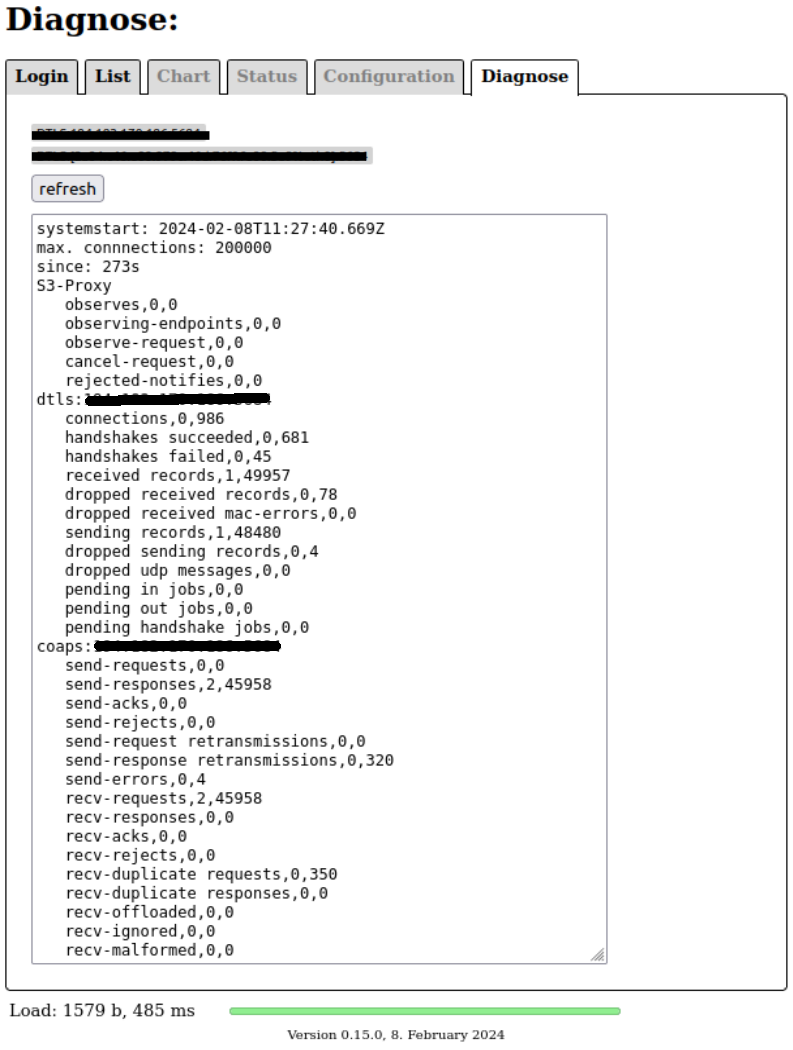
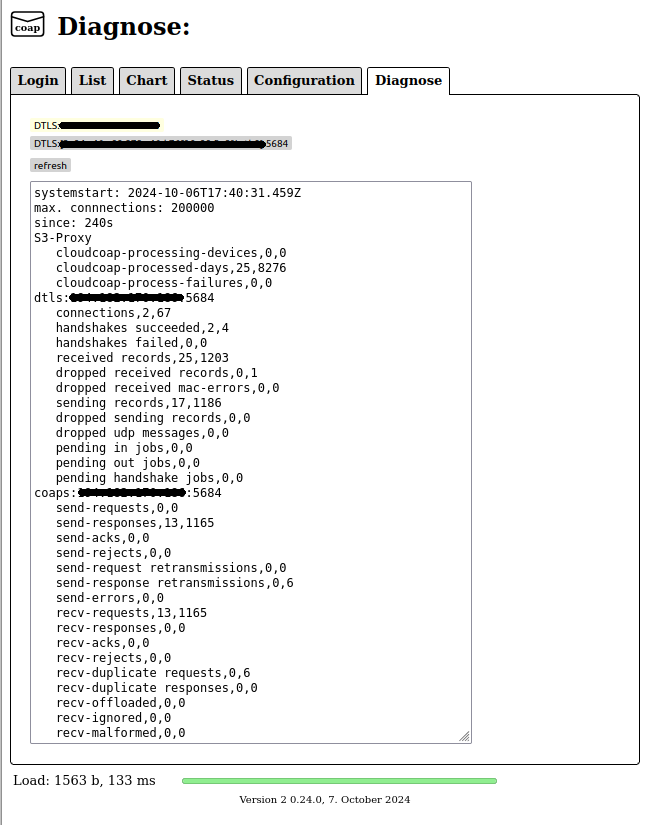
Update web UI docu.

Changed region(s): [[0.0, 0.0, 0.7879, 1.0], [0.9697, 0.0909, 1.0, 0.1212]]

diff --git a/demo-apps/cf-s3-proxy-server/docs/web-ui.md b/demo-apps/cf-s3-proxy-server/docs/web-ui.md
@@ -6,13 +6,23 @@
 
 The web UI is implemented as `Single Page Application` in plain [javascript](../src/main/resources/app.js). That allows to use it with a lot of devices, which just needs to come with an modern web-browser.
 
-On start, the login page asks for your web-login and internally returns the signing credentials to access the device data on S3. The protection mechanisms on S3 depends on the provider and not all have a fine-grained permission model. Therefore just a basic permission model with read and read/write rights based on S3 buckets is used.
+On start, the login page asks for your web-login and internally returns the signing credentials to access the device data on S3. The protection mechanisms on S3 depends on the provider and not all have a fine-grained permission model. Therefore just a basic permission model with read rights based on S3 buckets is used. Writes are supported via the HTTP login host and a user must have the device to write in one of the groups associated to the user.
+
+With the introduction of the archive files, there is also a new javascript version supporting these files. Append "/v2" to your hostname and that will be loaded. This will change in the future and will become the default and the old, series-file based web UI will then be available with "/v1".
+
+To open the web application enter 
+
+`https://<your-hostname>` in the browser or `https://<your-hostname>/v2` for the version with archive file support.
 
 ### Web-Browser Application Login View
 
 ![browser-login](./S3-proxy-login.png)
 
 To get access to the device data, enter the name and password and press "Login". When you're done with the device data, press "Logout" to ensure, the credentials are destroyed and order to protect them from being misused. If you close the browser or the page without logout, you will be warned about that with "leaving the page" and you need to select "leave page".
+
+Sometimes new javascript are published, but the web-browser doesn't always refresh it. Therefore the web applications checks for updates on login an indicates a new version with "(Please refresh, update available!)" appended to the shown version.
+
+![browser-update message](./S3-proxy-update-message.png)
 
 ### Web-Browser Application Device List View
 
@@ -24,19 +34,21 @@ The list contains an overview of selected device data. The list of columns is co
 
 When the list is shown at the begin, clicking on the column titles, `Device`, `Last Update`, `Provider`, `Operator`, `Bd` (Band), `Uptime`, or `Bat.`, will sort the list according the values of that column. If you click again, the order is reverted.
 
-If you `refresh` the list, updated entries will be shown with a yellow background.
+If you `refresh` the list, updated entries will be shown with a light yellow background and marked with an `*`. New entries will be shown with `+` and a yellow background.
+
+**Web UI V2 only:** If devices are using the **CUSTOM_OPTION_INTERVAL** to send the expected time until the next regular message, a `!` and light red background signals, that the next regular message of that device is missing. If the second regular message is missing, `!!` are shown on a red background. With 10 missing regular messages, the view switches to `-` without a colored background. It is also possible to sort the devices according their state, pressing the empty button in the title line. The precedence is `!!`, `!`, `+`, `*`, `<space>` and `-`.
 
 ![browser-list](./S3-proxy-list-new.png)
 
 ### Web-Browser Application Chart View
 
-![browser-chart](./S3-proxy-chart.png)
+The chart view shows some selected values as chart. The unit and scale of that unit is on the y-axis of both sides in the same color as the line in the chart.
 
-The chart view shows some selected values as chart. The unit and scale is on the y-axis of both sides in the same color as the line.
+![browser-chart](./S3-proxy-chart.png)
 
 With the slidebar the displayed period is selected. Short periods up to 10 days may be selected by steps in single days, larger periods are selected in steps of multiple days.
 
-At the top of the chart several checkboxes are available. With `Signals` you select the technical values, battery voltage, battery level, signal level, signal quality, number of retransmissions, and RTT. With `Sensors` you get for a `Thingy:91` the temperature, air pressure and humidity. For other devices you may get other values. With `Average` and `Min/Max` you select, how multiple values are mapped into a single point. `Zoom` extends the value range to the full y-axis.
+At the top of the chart several checkboxes are available. With `Signals` you select the technical values, battery voltage, battery level, signal level, signal quality, number of retransmissions, and RTT. With `Sensors` you get for a `Thingy:91` the temperature, air pressure and humidity. For other devices you may get other values. With `Average` and `Min/Max` you select, how multiple values are mapped into a single point. `Zoom` extends the value range to the mostly full y-axis.
 
 ![browser-chart-signals](./S3-proxy-chart-signals.png))
 
@@ -44,9 +56,9 @@ Using the cursor is slightly different when using an smartphone or an PC. With t
 
 ### Web-Browser Application Device Status View
 
-![browser-status](./S3-proxy-status.png)
-
 The status view shows the data received from the device. If no other timepoint is selected in the `Chart` view, the last received data is shown. Otherwise the data from the timepoint selected in the `Chart` view.
+
+![browser-status](./S3-proxy-status.png)
 
 At the top, the timepoint of the receiving the shown data is displayed. If available, the network status is extracted and displayed at the head below the timepoint. The payload of the the device data follows.
 
@@ -54,9 +66,9 @@ Below the payload field you may use the `<1000`, `<100`, `<20`, `<10` or `<` to 
 
 ## Web-Browser Application Device Configuration View
 
-![browser-config](./S3-proxy-config.png)
-
 The configuration view shows the data send to the device on response. Above the data field the timepoint of writing that data to the server is displayed. If that timepoint is newer than the timepoint of the last received data, then the timepoint shows a yellow background indicating, that the data wasn't received by the device yet.
+
+![browser-config](./S3-proxy-config.png)
 
 If your user has `write` rights, then you may edit that data and use the `write` button to transfer that edited data to the server. The `refresh/most recent` is used to check, if the device has send new data and so received the configuration back as response.
 
@@ -64,13 +76,13 @@ If your user has `write` rights, then you may edit that data and use the `write`
 
 ## Web-Browser Application Server Diagnose View
 
-![browser-diagnose](./S3-proxy-diagnose.png)
-
 The diagnose view shows the list of network interfaces at the head. If you select one, you get the traffic statistic of that and this interface is displayed with an yellow background.
+
+![browser-diagnose](./S3-proxy-diagnose.png)
 
 This information in the statistic field starts with the last system start time and the maximum number of supported connections. The `since:` line shows, how many seconds the current period lasts. That is followed by sections, which contains lines. Each of these lines starts with the topic followed by the number for the current period and the overall number. When switching to the next period, that values are transferred to the overall number and the current number is reseted.
 
-`S3-Proxy` section shows a statistic about observe notifies. Though observes are not intended to be used with the S3-Proxy, that section is left out, if no observes are used.
+`S3-Proxy` section shows a statistic about observe notifies and S3 processing. Though observes are not intended to be used with the S3-Proxy, that section is left out, if no observes are used. The `S3 processing` usually accumulates the received device data into an archive file once a day. The shown numbers are covering the processing in the S3 domain of the web-user.
 
 `dtls` section shows a statistic about the DTLS 1.2 CID layer. "handshakes failed" should usually show pretty small numbers, "dropped received records" and "dropped received mac-errors" should as well usually show such small numbers. If you detect higher numbers, you system may be under attack and you may need other tools to identify and mitigate an attack. The server itself uses `fail2ban` to block such traffic temporary at the cloud-VM firewall.
 

diff --git a/demo-apps/cf-s3-proxy-server/README.md b/demo-apps/cf-s3-proxy-server/README.md
@@ -2,6 +2,8 @@
 
 # Californium (Cf) - Cloud CoAP-S3-Proxy Server
 
+## SCADA (supervisory control and data acquisition)
+
 ## - Reliable - Efficient - Encrypted -
 
 ![coap-s3-proxy](./docs/coap-s3.svg)
@@ -566,7 +568,7 @@ A device POST its data to the "coaps://${host}/devices". Using query parameters 
 
 - **CUSTOM_OPTION_TIME** 65000: in request, it contains the device time in milliseconds since 1970.1.1. If {@code 0}, the device has no system time yet. In response it contains the system time, also in milliseconds since 1970.1.1 of the server, if that differs for more than 5s. Intended to sync the device time with the server time, if RTT is small enough and no retransmission is used.
 
-- **CUSTOM_OPTION_INTERVAL** 65012: used in request, contains the expected sedn interval in seconds. If available, used to detect device with currently missing messages.
+- **CUSTOM_OPTION_INTERVAL** 65012: used in request. It contains the time in seconds to the next regular message (send interval). If available, used to detect device with missing regular messages.
 
 Examples using coap-client of libcoap:
 
